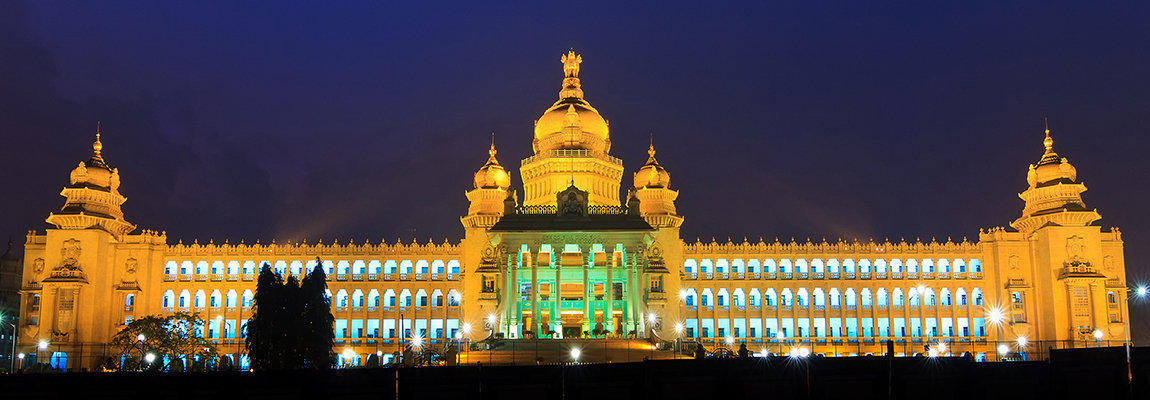
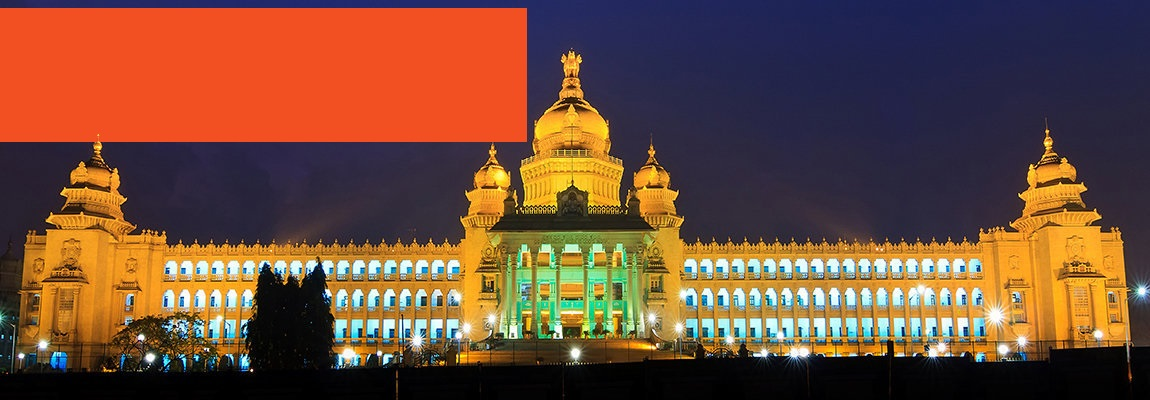
Updated about

diff --git a/index.html b/index.html
@@ -4,24 +4,24 @@
     <meta charset="utf-8" />
     <meta http-equiv="X-UA-Compatible" content="IE=edge" />
     <meta name="viewport" content="width=device-width, initial-scale=1" />
-    <title>Global Azure Bootcamp 2019 - Bangalore, India</title>
+    <title>Microsoft Reactor Launch Bangalore 2019 - Bangalore, India</title>
     <link rel="icon" href="https://global.azurebootcamp.net/wp-content/uploads/2018/09/cropped-logo-2019-762x677-32x32.png" sizes="32x32" />
     <link rel="icon" href="https://global.azurebootcamp.net/wp-content/uploads/2018/09/cropped-logo-2019-762x677-192x192.png" sizes="192x192" />
 
     <!-- SEO Tags -->
-    <meta name="description" content="Global Azure Bootcamp 2019 - Bangalore, India"/>
+    <meta name="description" content="Microsoft Reactor Launch Bangalore 2019 - Bangalore, India"/>
     <meta name="robots" content="follow,index" />
     <meta property="og:type" content="website" />
-    <meta property="og:title" content="Global Azure Bootcamp 2019 - Bangalore, India"/>
+    <meta property="og:title" content="Microsoft Reactor Launch Bangalore 2019 - Bangalore, India"/>
     <meta property="og:locale" content="en_US" />
-    <meta  property="og:description" content="The Global Azure Bootcamp 2019 is a one day event held on the 27th April, 2019. Join us in Bangalore."/>
-    <meta  property="og:site_name"  content="Global Azure Bootcamp 2019 - Bangalore, India"/>
+    <meta  property="og:description" content="The Microsoft Reactor Launch Bangalore 2019 is a one day event held on the 7th September, 2019. Join us in Bangalore."/>
+    <meta  property="og:site_name"  content="Microsoft Reactor Launch Bangalore 2019 - Bangalore, India"/>
     <meta property="og:image" content="assets/images/2019/gab.jpg" />
     <meta name="twitter:card" content="summary_large_image">
     <meta name="twitter:site" content="@Gurucharan94">
     <meta name="twitter:creator" content="@Gurucharan94">
-    <meta name="twitter:description" content="The Global Azure Bootcamp 2019 is a one day event held on the 27th April, 2019. Join us in Bangalore." />
-    <meta name="twitter:title" content="Global Azure Bootcamp 2019 - Bangalore, India" />
+    <meta name="twitter:description" content="The Microsoft Reactor Launch Bangalore 2019 is a one day event held on the 7th September, 2019. Join us in Bangalore." />
+    <meta name="twitter:title" content="Microsoft Reactor Launch Bangalore 2019 - Bangalore, India" />
 
     <!-- Stylesheets-->
     <link
@@ -70,7 +70,7 @@
 
             <!-- Logo -->
             <a class="navbar-brand" href="index.html"
-              >Global Azure Bootcamp 2019</a
+              >Microsoft Reactor Launch Bangalore 2019</a
             >
           </div>
 
@@ -109,9 +109,9 @@
             <div class="mu-hero-featured-area">
               <div class="mu-hero-featured-content">
                 <h1 style="font-size:75px;">
-                  <b>Global Azure Bootcamp 2019</b>
+                  <b>Microsoft Reactor Launch Bangalore 2019</b>
                 </h1>
-                <h2>April 27, 2019 @ Bengaluru, India</h2>
+                <h2>September 27, 2019 @ Bengaluru, India</h2>
 
                 <div
                   id="DateCountdown"
@@ -151,8 +151,8 @@
                     <div class="mu-about-left">
                       <img
                         class=""
-                        src="assets/images/logo-2019-500x444.png"
-                        alt="Global Azure Bootcamp 2019 Logo"
+                        src="assets/images/head-featured-bg.jpg"
+                        alt="Microsoft Reactor Launch Bangalore 2019 Logo"
                       />
                     </div>
                   </div>
@@ -160,16 +160,22 @@
                     <div class="mu-about-right">
                       <h2>About The Event</h2>
                       <p style="font-size:16px;">
-                        Global Azure Bootcamp 2019 @ Bengaluru is a full-day,
-                        multi-track event about Microsoft Azure organized by
+                        Microsoft Reactor Launch Bangalore 2019 @ Bengaluru is a full-day,
+                        event on Microsoft Cloud for Startups. The event is organized by
                         <a
                           style="color: blue; text-decoration: underline"
                           href="https://meetup.com/Microsoft-Azure-Bangalore/"
                         >
                           Bengaluru Azure User Group</a
-                        >
-                        on 27th April, 2019. It is free and open for everybody
-                        to join. This is a one day event to help people get up
+                        > & 
+                        <a
+                        style="color: blue; text-decoration: underline"
+                        href="https://www.meetup.com/BDotNetUG/">
+                        Bangalore Dotnet Usergroup</a
+                      >
+                        on 7th September, 2019. It is free and open for everybody
+                        to join. This is a one day event to help the developer eco-system from the start-up community and mid size enterprises 
+                         get up
                         to speed on developing applications on Microsoft Azure.
                       </p>
                       <p style="font-size:16px;">
@@ -178,9 +184,7 @@
                         speakers from the local community, who will chase down
                         the latest developments in Microsoft Azure. The talks
                         and workshops will cover a diverse range of topics
-                        including IT Pro, DevOps, Business Applications,
-                        Security etc. The event also highlights emerging
-                        technologies like Machine Learning and IoT.
+                        including Web,Mobile, DevOps and Microservice deployment using Kubernetes. 
                       </p>
                     </div>
                   </div>
@@ -200,20 +204,13 @@
           <div class="row">
             <div class="col-md-6 no-padding">
               <div class="mu-venue-map">
-                <iframe
-                  src="https://www.google.com/maps/embed?pb=!1m18!1m12!1m3!1d3887.6587044412986!2d77.70345471448036!3d12.993667690841322!2m3!1f0!2f0!3f0!3m2!1i1024!2i768!4f13.1!3m3!1m2!1s0x3bae1198ca329acd%3A0x63a9fd1f891edc17!2sABB+Ability+Innovation+Center!5e0!3m2!1sen!2sus!4v1522395570849"
-                  width="100%"
-                  height="800px"
-                  frameborder="0"
-                  style="border:0"
-                  allowfullscreen
-                ></iframe>
+                <iframe src="https://www.google.com/maps/embed?pb=!1m18!1m12!1m3!1d3888.089415170498!2d77.59410271482197!3d12.966129990859484!2m3!1f0!2f0!3f0!3m2!1i1024!2i768!4f13.1!3m3!1m2!1s0x3bae15d7f5ba1aa5%3A0x8dfb72b2bb064df0!2sMicrosoft+Research!5e0!3m2!1sen!2sin!4v1566395587517!5m2!1sen!2sin" width="100%" height="800px" frameborder="0" style="border:0" allowfullscreen></iframe>
               </div>
             </div>
             <div class="col-md-6 no-padding">
               <div>
                 <img
-                  src="assets/images/abb.jpg"
+                  src="assets/images/microsoft.png"
                   class="img-responsive"
                   alt="ABB Logo"
                 />
@@ -222,12 +219,12 @@
                 <h2 class="fa fa-chevron-right" aria-hidden="true">
                   <i>Venue</i>
                 </h2>
-                <h3>ABB Ability Innovation Center,</h3>
+                <h3>Microsoft Research,</h3>
                 <h4>
-                  Bhoruka Tech Park, Whitefield Main Road, Mahadevapura
-                  Bengaluru, Karnataka 560048
+                  9, Vigyan 1st floor, Lavelle Road, Bengaluru, Karnataka 560001
+                  
                 </h4>
-                <a href="https://goo.gl/maps/ikFaYFXQfjS2" class="btn-info"
+                <a href="https://goo.gl/maps/kNTwWm5Zuq6bymp98" class="btn-info"
                   >Google Map</a
                 >
               </div>
